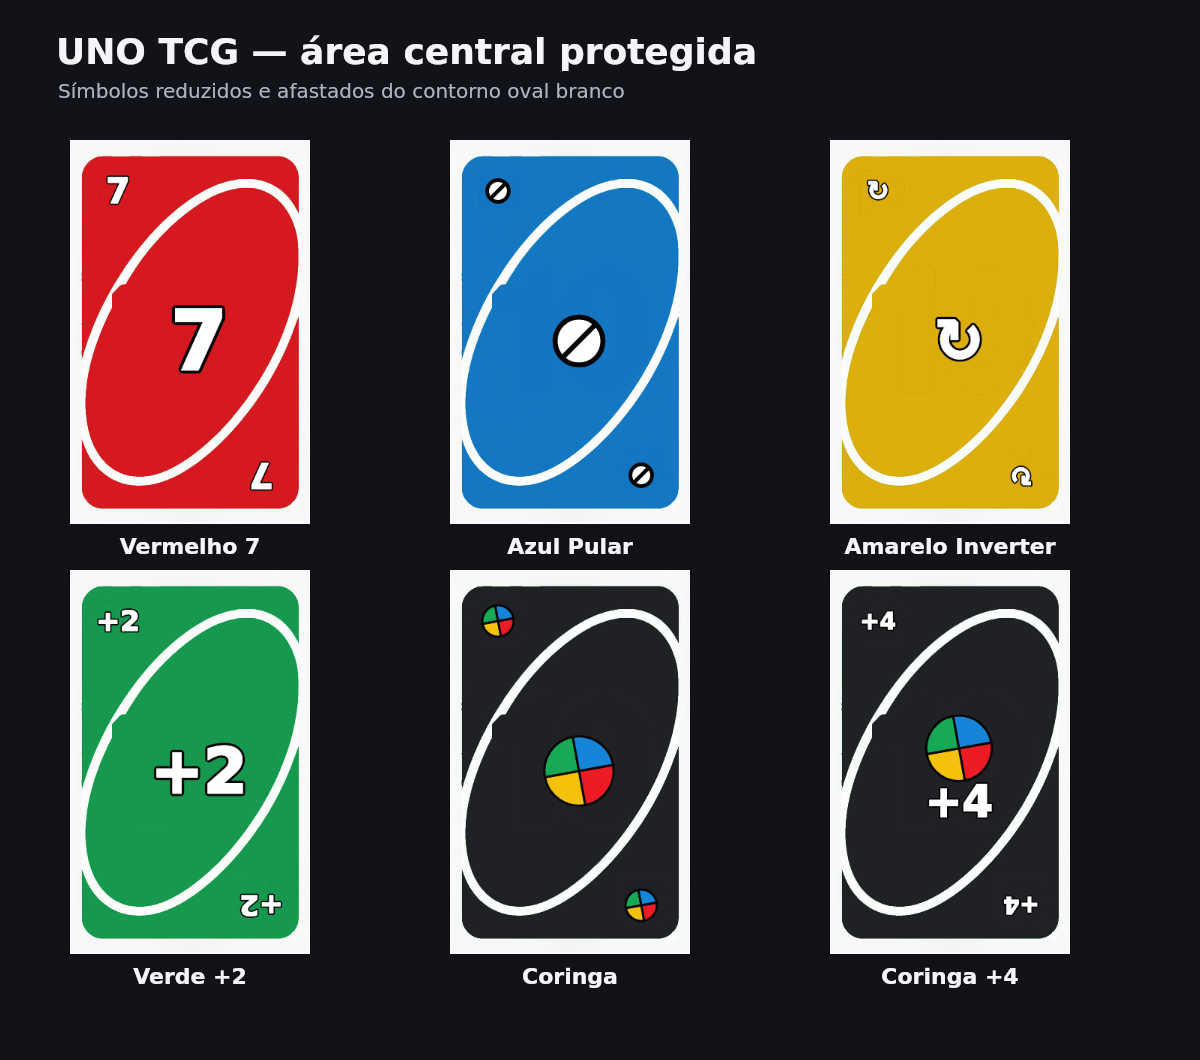
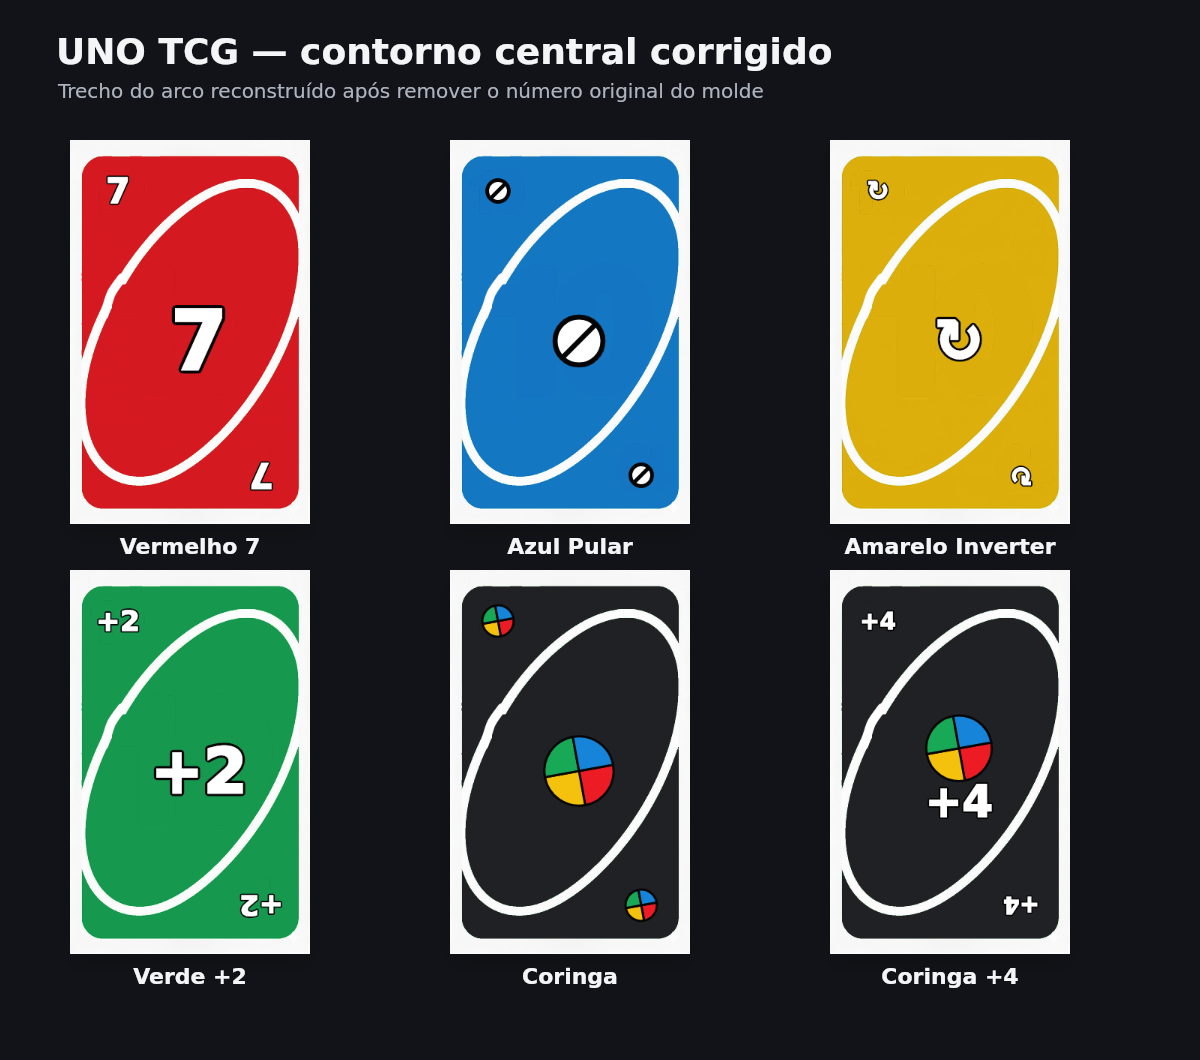
Restore UNO center contour after template cleanup

Changed region(s): [[0.0308, 0.0311, 0.7092, 0.0934], [0.7092, 0.2491, 0.74, 0.2802], [0.4008, 0.2491, 0.4317, 0.2802]]

diff --git a/discord-bot/src/utils/unoVisuals.js b/discord-bot/src/utils/unoVisuals.js
@@ -263,6 +263,20 @@ function drawGlyph(ctx, card, x, y, size, rotation = 0) {
   drawTextGlyph(ctx, cardSymbol(card), x, y, size, rotation);
 }
 
+function repairCenterContour(ctx) {
+  ctx.save();
+  ctx.strokeStyle = '#ffffff';
+  ctx.lineWidth = 12;
+  ctx.lineCap = 'round';
+  ctx.lineJoin = 'round';
+  ctx.beginPath();
+  ctx.moveTo(69, 184);
+  ctx.bezierCurveTo(63, 193, 57, 199, 54, 207);
+  ctx.bezierCurveTo(51, 215, 49, 224, 45, 234);
+  ctx.stroke();
+  ctx.restore();
+}
+
 export async function generateUnoCard(card) {
   const key = `${card.color}:${card.kind}:${card.value ?? ''}`;
   if (cache.has(key)) return cache.get(key);
@@ -278,6 +292,7 @@ export async function generateUnoCard(card) {
   drawGlyph(ctx, card, 64, 68, card.kind === 'number' ? 46 : 38);
   drawGlyph(ctx, card, 255, 447, card.kind === 'number' ? 46 : 38, Math.PI);
   ctx.drawImage(arc, 0, 0, CARD_WIDTH, CARD_HEIGHT);
+  repairCenterContour(ctx);
 
   const buffer = canvas.toBuffer('image/png');
   cache.set(key, buffer);
